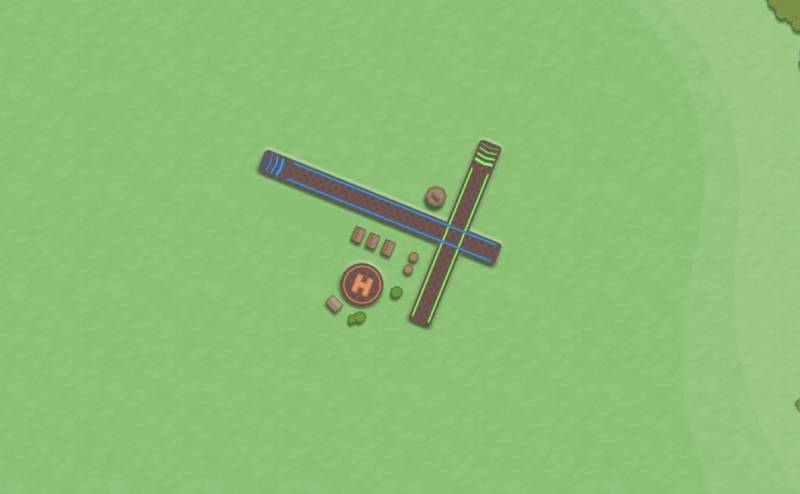
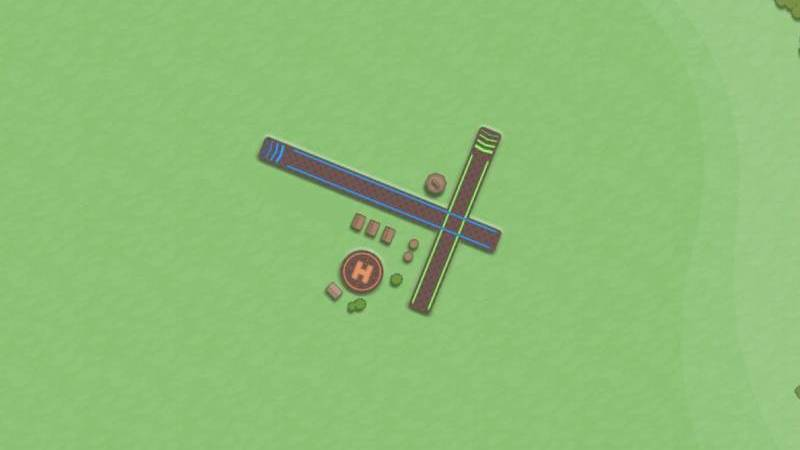
Show backgrounds into one window

Changed region(s): [[0.3125, 0.3111, 0.625, 0.7156], [0.9375, 0.0, 1.0, 0.0622], [0.9688, 0.8089, 1.0, 0.84]]

diff --git a/src/main.cpp b/src/main.cpp
@@ -22,17 +22,8 @@ int main(void) {
     // Set up the window
     ContextSettings settings;
     settings.antialiasingLevel = 8;
-    RenderWindow app(VideoMode(WINDOW_WIDTH, WINDOW_HEIGHT, 32), "Airport simulation", Style::Default, settings);
+    RenderWindow app(VideoMode(WINDOW_WIDTH*2, WINDOW_HEIGHT*2, 32), "Airport simulation", Style::Default, settings);
     app.setFramerateLimit(30);
-
-    // Set up the background image
-    Texture background_img;
-    Sprite background_sprite;
-    if (!background_img.loadFromFile(imgAirport("LIL"))) {
-        cerr << "Cannot load image file : " << IMG_FOLDER << "airport1.jpg" << endl;
-        return -1;
-    }
-    background_sprite.setTexture(background_img);
 
     // Set up the font
     Font font;
@@ -62,7 +53,6 @@ int main(void) {
     // Create planes
     vector<Plane*> planes;
     for (auto& app : airports) {
-        cout << app->getName() << endl;
         TWR* current_twr = app->getTWR();
         Plane* p;
         do {
@@ -78,6 +68,24 @@ int main(void) {
         airport->setThread(ref(stop_prgm));
     thread world_thread(Plane::world, ref(planes), ref(stop_prgm));
 
+    /* ---------------------------- Load backgrounds ---------------------------- */
+
+    // Set up the background image
+    map<string, Sprite*> backgrounds;
+    vector<Texture*> background_textures;
+    for (auto& airport : airports) {
+        Texture* background_img = new Texture();
+        Sprite* background_sprite = new Sprite();
+        string img_name = imgAirport(airport->getTrigramme());
+        if (!background_img->loadFromFile(img_name)) {
+            cerr << "Cannot load image file : " << img_name << endl;
+            return -1;
+        }
+        background_sprite->setTexture(*background_img);
+        background_textures.push_back(background_img);
+        backgrounds.insert(pair<string, Sprite*>(airport->getName(), background_sprite));
+    }
+
     /* -------------------------------- SFML loop ------------------------------- */
 
     while (app.isOpen()) {
@@ -92,8 +100,18 @@ int main(void) {
         if(stop_prgm) app.close();
         
         app.clear();
-        app.draw(background_sprite);
-
+        
+        // Draw backgrounds
+        size_t i(0);
+        for (auto& background : backgrounds) {
+            Sprite* to_draw = background.second;
+            Vector2f pos((i == 1 ? 0 : 1) * WINDOW_WIDTH, (i > 0 ? 1 : 0) * WINDOW_HEIGHT);
+            to_draw->setPosition(pos);
+            app.draw(*to_draw);
+            i++;
+        }
+        
+        // Draw planes
         for (auto& plane : planes) {
             app.draw(plane->toSFML());
             app.draw(plane->getAltitudeLabel());
@@ -107,6 +125,9 @@ int main(void) {
 
     stop_prgm = true;
     if(world_thread.joinable()) world_thread.join();
+    for (auto& bg : backgrounds) delete bg.second;
+    for (auto &bg : background_textures) delete bg;
+    for (auto& airport : airports) delete airport;
     for (auto& plane : planes) delete plane;
 
     return 0;

diff --git a/headers/Airport.hpp b/headers/Airport.hpp
@@ -22,7 +22,7 @@ using json = nlohmann::json;
 // Window size
 #define WINDOW_WIDTH 800.0
 #define WINDOW_REAL_WIDTH 3000.0
-#define WINDOW_HEIGHT 494.0
+#define WINDOW_HEIGHT 450.0
 #define WINDOW_REAL_HEIGHT (WINDOW_REAL_WIDTH * (WINDOW_HEIGHT / WINDOW_WIDTH))
 
 // Images
